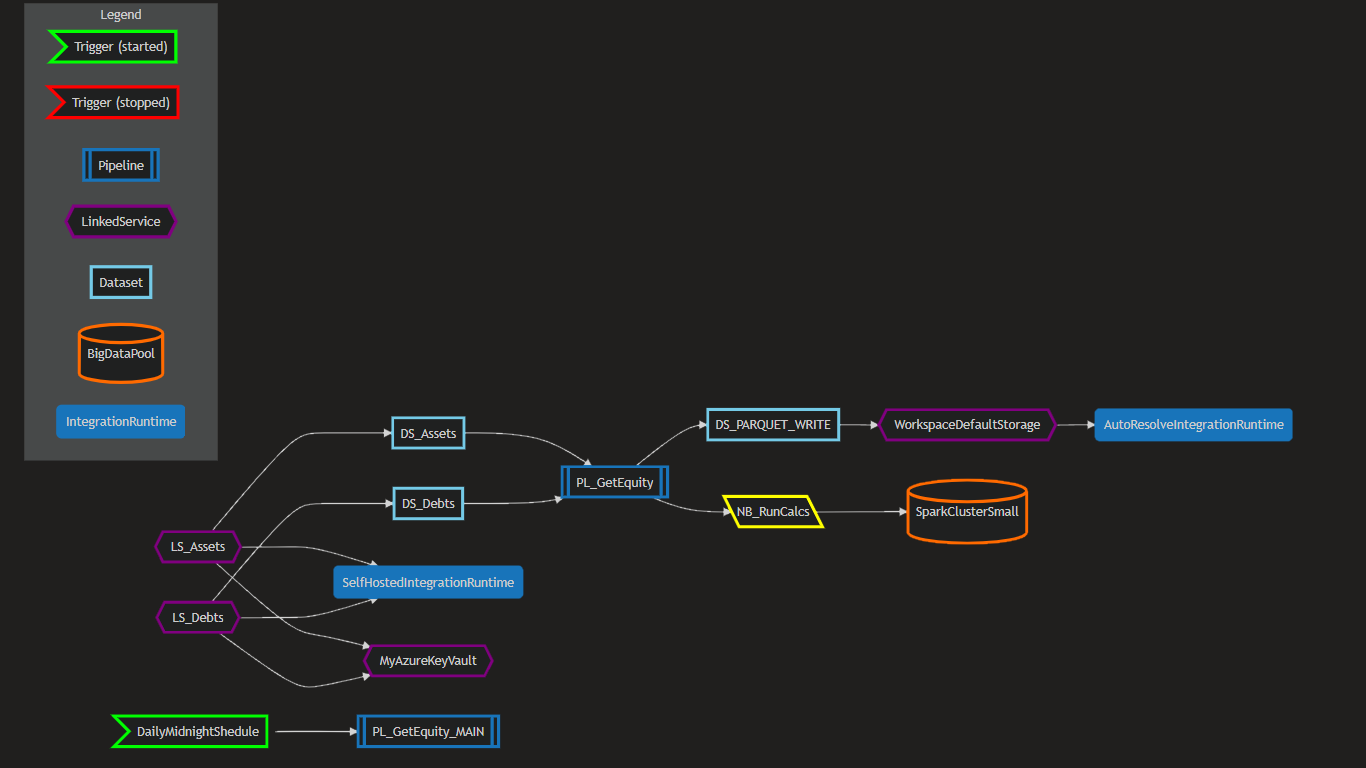
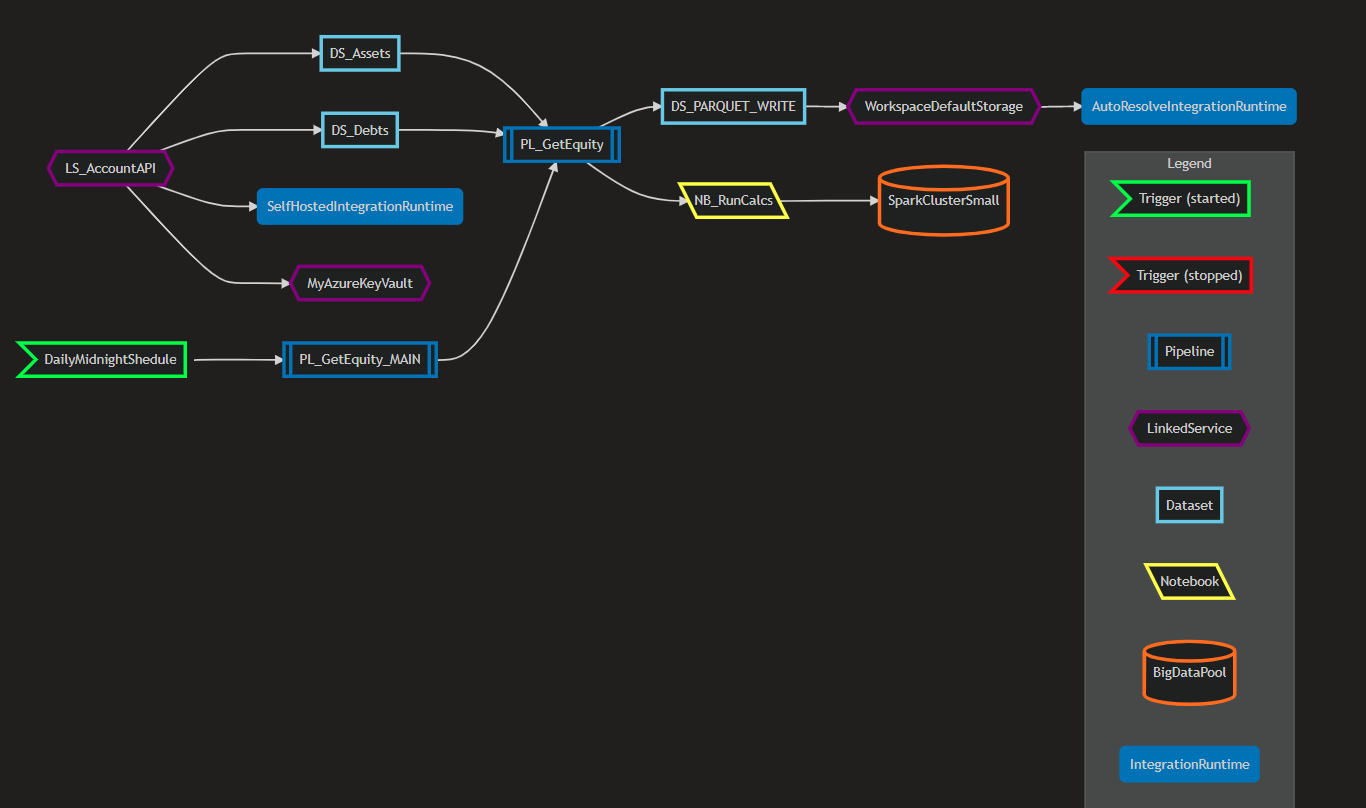
update example graph output and screenshot

diff --git a/readme.md b/readme.md
@@ -50,23 +50,23 @@ LegendTriggerStopped>"Trigger (stopped)"]:::redBorder
 LegendPipeline[["Pipeline"]]:::blueBorder
 LegendLinkedService{{"LinkedService"}}:::purpleBorder
 LegendDataset["Dataset"]:::lightBlueBorder
+LegendNotebook[\"Notebook"\]:::yellowBorder
 LegendBigDataPool[("BigDataPool")]:::orangeBorder
 LegendIntegrationRuntime("IntegrationRuntime"):::blueFill
 end
 0{{"WorkspaceDefaultStorage"}}:::purpleBorder --> 7("AutoResolveIntegrationRuntime"):::blueFill
 2["DS_PARQUET_WRITE"]:::lightBlueBorder --> 0{{"WorkspaceDefaultStorage"}}:::purpleBorder
 3["DS_Assets"]:::lightBlueBorder --> 11[["PL_GetEquity"]]:::blueBorder
-4{{"LS_Assets"}}:::purpleBorder --> 10{{"MyAzureKeyVault"}}:::purpleBorder
-4{{"LS_Assets"}}:::purpleBorder --> 9("SelfHostedIntegrationRuntime"):::blueFill
-4{{"LS_Assets"}}:::purpleBorder --> 3["DS_Assets"]:::lightBlueBorder
+4{{"LS_AccountAPI"}}:::purpleBorder --> 10{{"MyAzureKeyVault"}}:::purpleBorder
+4{{"LS_AccountAPI"}}:::purpleBorder --> 9("SelfHostedIntegrationRuntime"):::blueFill
+4{{"LS_AccountAPI"}}:::purpleBorder --> 3["DS_Assets"]:::lightBlueBorder
+4{{"LS_AccountAPI"}}:::purpleBorder --> 5["DS_Debts"]:::lightBlueBorder
 5["DS_Debts"]:::lightBlueBorder --> 11[["PL_GetEquity"]]:::blueBorder
-6{{"LS_Debts"}}:::purpleBorder --> 10{{"MyAzureKeyVault"}}:::purpleBorder
-6{{"LS_Debts"}}:::purpleBorder --> 9("SelfHostedIntegrationRuntime"):::blueFill
-6{{"LS_Debts"}}:::purpleBorder --> 5["DS_Debts"]:::lightBlueBorder
 11[["PL_GetEquity"]]:::blueBorder --> 2["DS_PARQUET_WRITE"]:::lightBlueBorder
 11[["PL_GetEquity"]]:::blueBorder --> 14[\"NB_RunCalcs"\]:::yellowBorder
 14[\"NB_RunCalcs"\]:::yellowBorder  --> 15[("SparkClusterSmall")]:::orangeBorder
 13>"DailyMidnightShedule"]:::greenBorder --> 12[["PL_GetEquity_MAIN"]]:::blueBorder
+12[["PL_GetEquity_MAIN"]]:::blueBorder --> 11[["PL_GetEquity"]]:::blueBorder
 ```
 
 ## Todo
